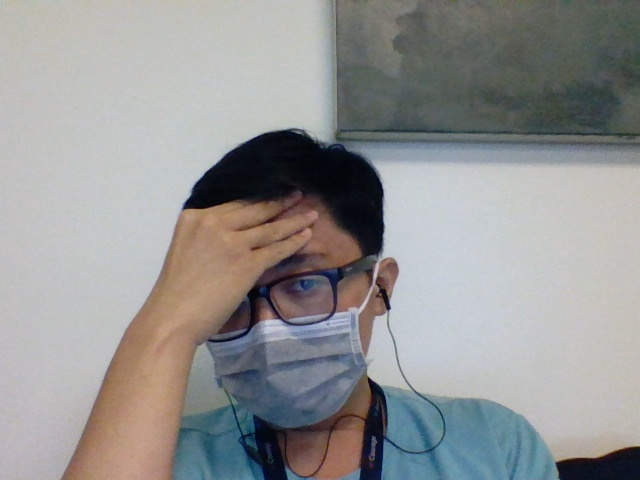
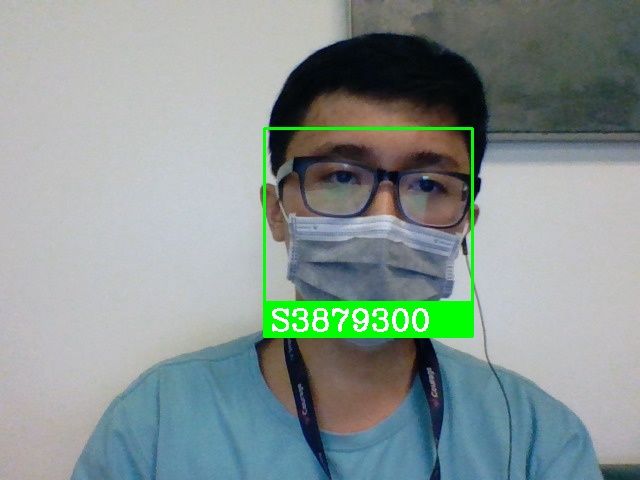
add succesfully validation function into app.py

diff --git a/app.py b/app.py
@@ -26,7 +26,14 @@ def openLogin():
     return render_template("LogInLogOut.html")
 
 @app.route('/successValidation', methods=['POST', "GET"])
-def confirmLogin(name):
+def confirmLogin():
+    with open("current_name.txt", 'r+') as file:
+        infoDataList = []
+        for line in file:
+            strip_lines = line.strip()
+            infoDataList.append(strip_lines)
+        name = infoDataList[0].replace('ÿþ', '')
+    file.close()
     required_data = os.path.join('user_data', name, 'user_info.txt')
     with open(required_data, 'r+') as file:
         infoDataList = []
@@ -90,7 +97,7 @@ def gen():
         faceCurrentFrame = face_recognition.face_locations(imgSmall)  # find the face location
         encodeCurrentFrame = face_recognition.face_encodings(imgSmall,
                                                              faceCurrentFrame)  # encode the current frame capture by webcam
-        current_name = ""
+        current_name = []
         for encodeFace, faceLoc in zip(encodeCurrentFrame, faceCurrentFrame):
             matches = face_recognition.compare_faces(encodeListKnown,
                                                      encodeFace)  # find matches image with the person in the webcam
@@ -101,7 +108,7 @@ def gen():
             if matches[matchIndex]:
                 name = getName[matchIndex].upper()  # get username which is the name of the image
                 print(name)
-                current_name = f"{str(name)}"
+                current_name.append(name)
                 """draw rectangle around the face location on the webcam screen"""
                 y1, x2, y2, x1 = faceLoc
                 y1, x2, y2, x1 = y1 * 4, x2 * 4, y2 * 4, x1 * 4  # the webcam image is resized above so we have to multiply by 4
@@ -121,6 +128,9 @@ def gen():
                             infoList.append(strip_lines)
                         sname = infoList[1]
                         sid = infoList[2]
+                    file.close()
+                    with open('current_name.txt', 'w') as file:
+                        file.writelines(f"{str(current_name[0])}")
                     file.close()
                     today = datetime.date.today()
                     log = os.path.join('log', 'recordAttendance ' + str(today) + '.txt')
@@ -149,7 +159,6 @@ def gen():
         cv2.waitKey(1)
         yield (b'--frame\r\n'
                b'Content-Type: image/jpeg\r\n\r\n' + open('demo.jpg', 'rb').read() + b'\r\n')
-    confirmLogin(current_name)
 @app.route('/video_feed')
 def video_feed():
     return Response(gen(),
